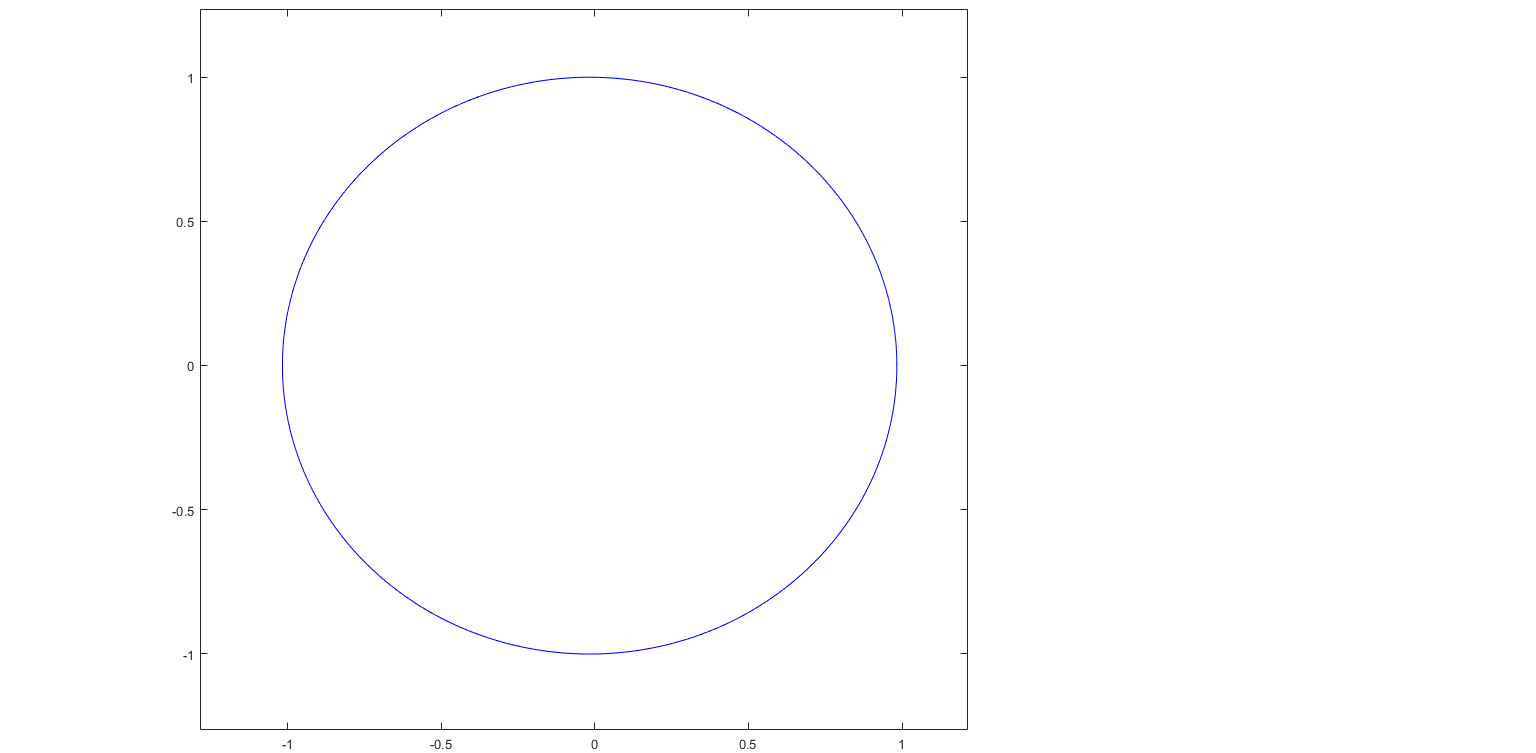
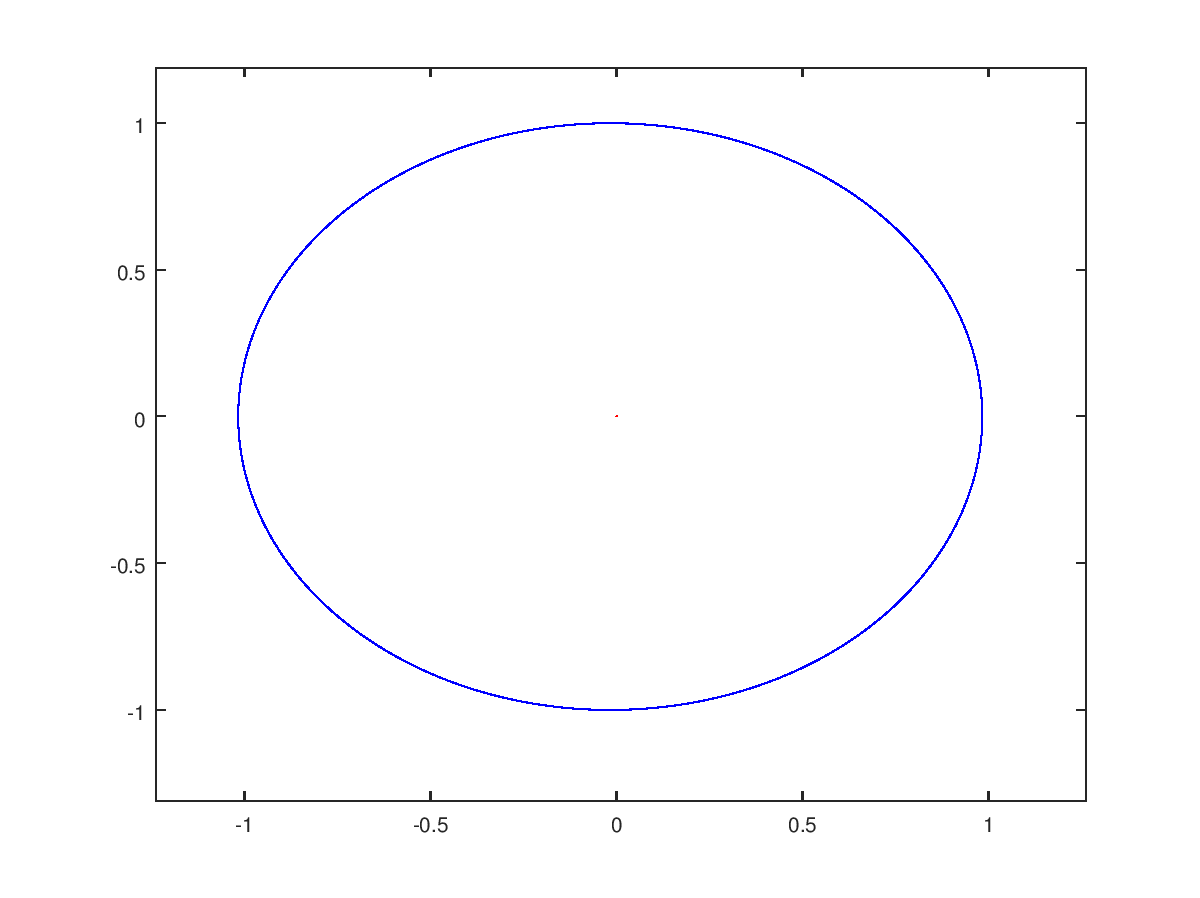
Changed some shit

diff --git a/Practical 3/output/nbody_3.m b/Practical 3/output/nbody_3.m
@@ -18,8 +18,11 @@ masses = [sunMass earthMass moonMass];
 sunPositions   = squeeze(positions(1:2,1,:))';
 earthPositions = squeeze(positions(1:2,2,:))';
 moonPositions = squeeze(positions(1:2,3,:))';
+subplot(2,1,1);
 plot(earthPositions(:,1), earthPositions(:,2), 'Color', 'blue'); hold on;
 plot(sunPositions(:,1), sunPositions(:,2), 'Color', 'red');
-plot(moonPositions(:,1), moonPositions(:,2), 'Color', 'green');
+plot(moonPositions(:,1), moonPositions(:,2), 'Color', 'black');
+subplot(2,1,2);
+plot(moonPositions(:,1) - earthPositions(:,1), moonPositions(:,2) - earthPositions(:,2));
 earthPeriods = detectOrbitalPeriods(times, squeeze(positions(:,2,:) - positions(:,1,:)))
 moonPeriods = detectOrbitalPeriods(times, squeeze(positions(:,3,:) - positions(:,2,:)))

diff --git a/Practical 3/output/simulate3sym.m b/Practical 3/output/simulate3sym.m
@@ -7,7 +7,7 @@ function [times, positions, velocities] = simulate3sym(masses, initial_positions
 % Units: au, day, 10^24 kg
 
 % Set step size and number of steps
-Delta_t = 1;
+Delta_t = 0.1;
 num_steps = (duration*365)/Delta_t;
 
 % Create times array
